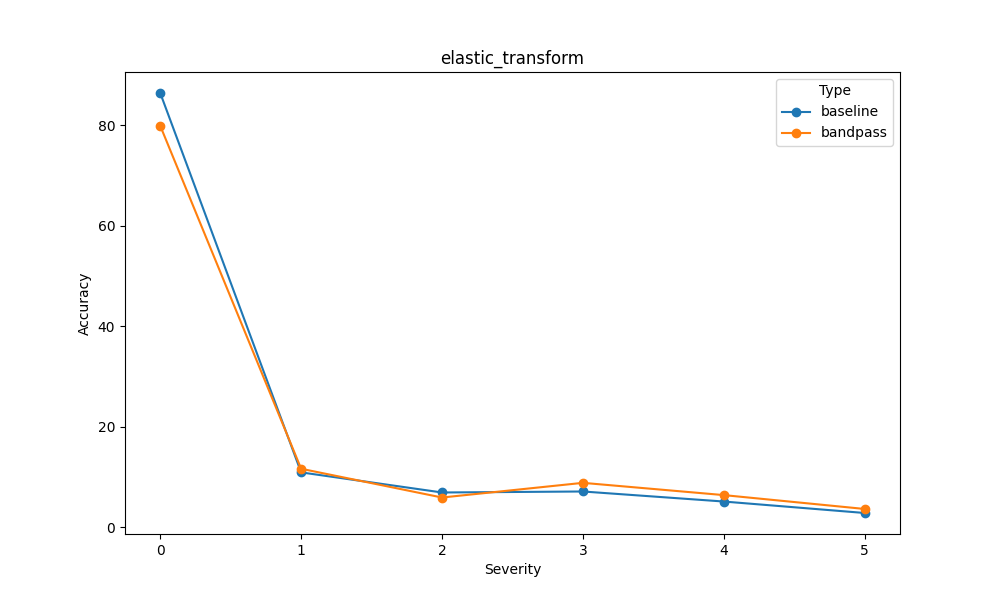
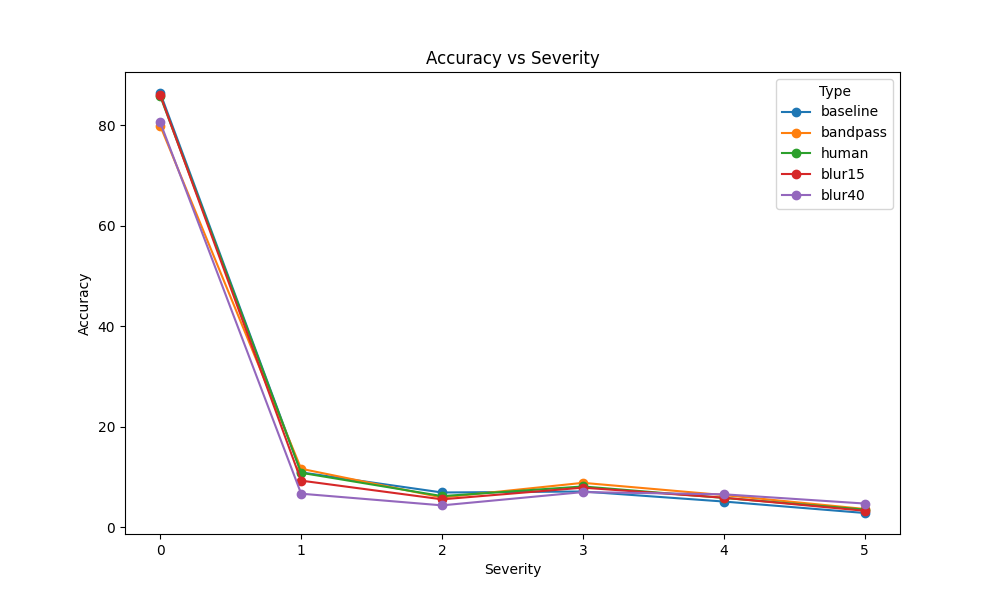
add blur natural attack

diff --git a/plot_attack.py b/plot_attack.py
@@ -1,13 +1,28 @@
 import pickle
 import matplotlib.pyplot as plt
+from brokenaxes import brokenaxes
 
-with open("./resnet18-layer-None-attk-natural.pkl", "rb") as f:
+with open("./new_resnet18-layer-None-attk-natural.pkl", "rb") as f:
     none_results = pickle.load(f)
 
-with open("./resnet18-layer-bandpass-attk-natural.pkl", "rb") as f:
+with open("./new_resnet18-layer-bandpass-attk-natural.pkl", "rb") as f:
     bandpass_results = pickle.load(f)
-results_list = [none_results, bandpass_results]
-results_label = ["baseline", "bandpass"]
+
+with open("./resnet18-layer-bandpass-2.0-attk-natural.pkl", "rb") as f:
+    bandpass_human_results = pickle.load(f)
+
+with open("./resnet18-layer-blur-1.5-attk-natural.pkl", "rb") as f:
+    blur_15_results = pickle.load(f)
+with open("./resnet18-layer-blur-4.0-attk-natural.pkl", "rb") as f:
+    blur_40_results = pickle.load(f)
+results_list = [
+    none_results,
+    bandpass_results,
+    bandpass_human_results,
+    blur_15_results,
+    blur_40_results,
+]
+results_label = ["baseline", "bandpass", "human", "blur15", "blur40"]
 plot_types = perturb_types = [
     "gaussian_noise",
     "shot_noise",
@@ -31,16 +46,21 @@ plot_types = perturb_types = [
 ]
 for plot_type in plot_types:
     plt.figure(figsize=(10, 6))
-
+    # bax = brokenaxes(ylims=((0, 15), (60, 100)), hspace=0.1)
     for i, results in enumerate(results_list):
         plot_info = [r["plot"] for r in results if r["type"] == plot_type][0]
         severities = [info["severity"] for info in plot_info]
         accuracies = [info["perturb_acc"] for info in plot_info]
+        # bax.plot(severities, accuracies, marker="o", label=results_label[i])
         plt.plot(severities, accuracies, marker="o", label=results_label[i])
 
-    plt.title(f"{plot_type}")
+    # bax.set_title(f"{plot_type}")
+    # bax.set_xlabel("Severity")
+    # bax.set_ylabel("Accuracy")
+    # bax.legend(title="Type")
+    plt.title("Accuracy vs Severity")
     plt.xlabel("Severity")
     plt.ylabel("Accuracy")
     plt.legend(title="Type")
     # plt.grid(False)
-    plt.savefig(f"{plot_type}")
+    plt.savefig(f"plot/{plot_type}")

diff --git a/attack.py b/attack.py
@@ -205,10 +205,6 @@ def main():
                     severity=severity,
                     perturbation=perturb,
                 )
-                utils.print_safe(
-                    f"clean accuracy:  {(original_acc_sum / n * 100):.2f}, "
-                    f"perturbed accuracy: {(perturb_accs / n * 100):.2f}"
-                )
                 if severity == 0:
                     result = {
                         "severity": severity,
@@ -221,12 +217,16 @@ def main():
                         "clean_acc": original_acc_sum / n * 100,
                         "perturb_acc": perturb_accs / n * 100,
                     }
+                utils.print_safe(
+                    f"clean accuracy:  {result['clean_acc']}, "
+                    f"perturbed accuracy: {result['perturb_acc']}",
+                )
                 results_per_type["plot"].append(result)
 
             results.append(results_per_type)
         utils.pickle_dump(
             results,
-            f"{args.save_dir}/{args.arch}-layer-{args.append_layer}-attk-{args.attack_alg}.pkl",
+            f"{args.save_dir}/{args.arch}-layer-{args.append_layer}-{args.custom_sigma}-attk-{args.attack_alg}.pkl",
         )
     else:
         results = {"args": args, "eps": EPSILON_LS, "clean_acc": [], "perturb_acc": []}
